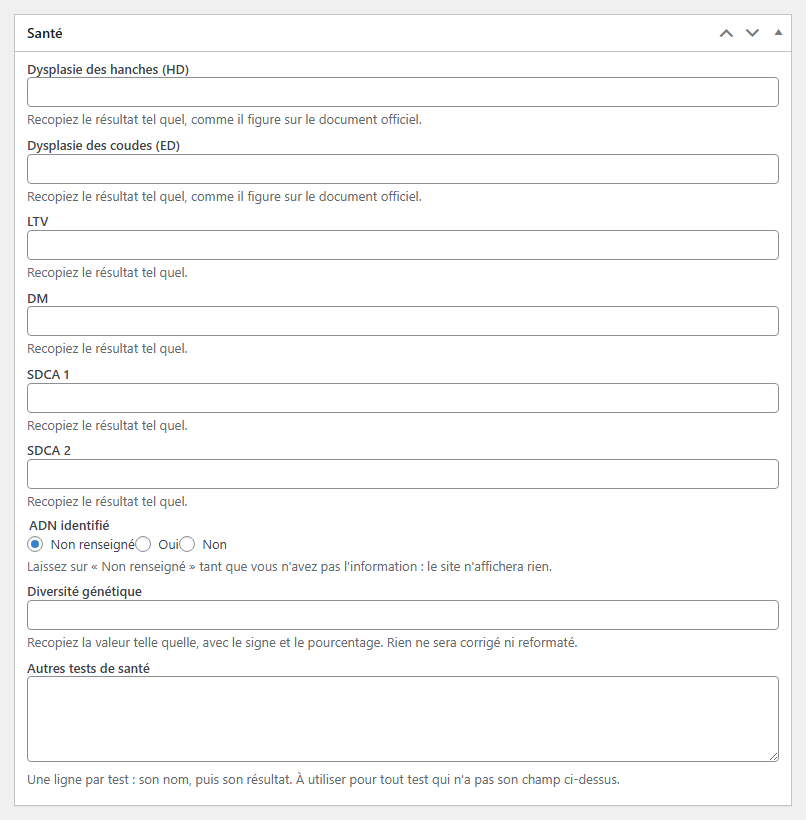
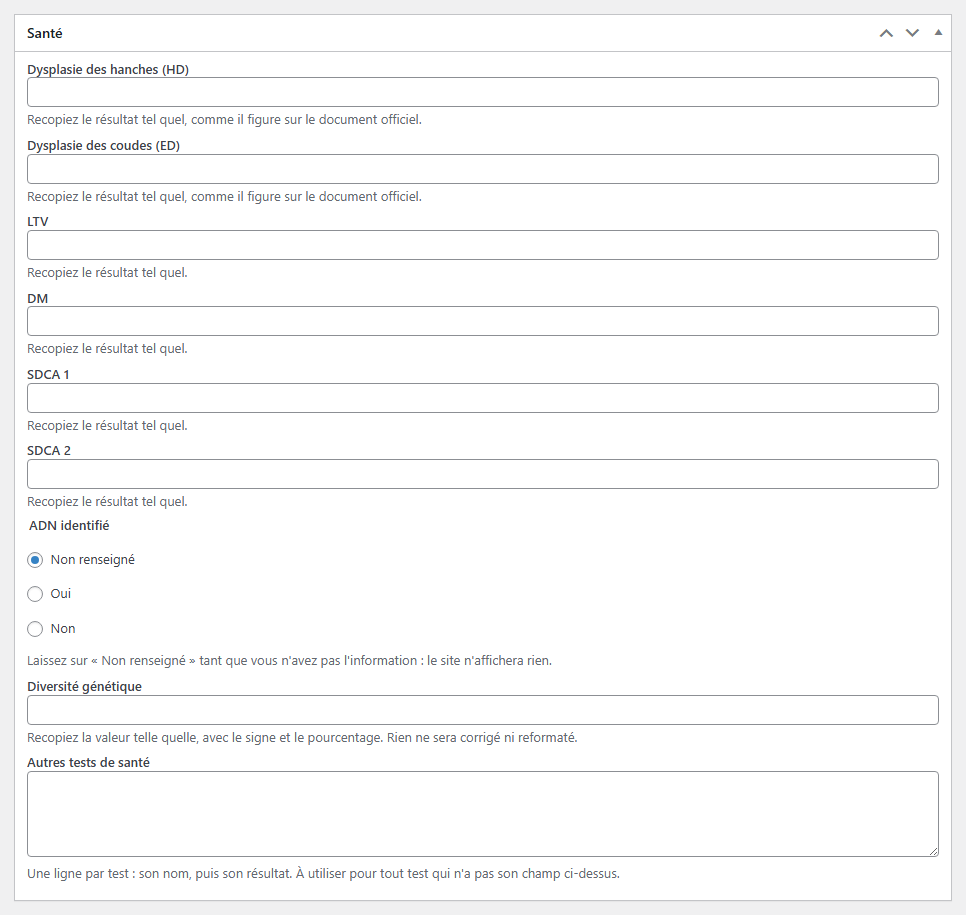
docs(doc): refaire les captures des écrans de saisie et situer les boutons (refs #32)
Les quatre captures montraient encore les défauts que 3667745 supprime. Celle du tableau des
chiots contredisait franchement le texte voisin, qui annonce un tableau tenant dans la page
jusqu'à « Retirer ce chiot » : l'image, elle, montrait le tableau débordant de son cadre et
l'en-tête cassé sur trois lignes. Le texte était juste, l'image ne l'était plus.

Refaites en compte « fabienne », à 1440 px, sur un document neuf, cadrage aligné sur les
captures voisines et focus retiré pour ne pas laisser d'anneau bleu :
- chien-identite.png, les groupes Sexe, Variété et Statut désormais empilés ;
- chien-sante.png, le groupe ADN identifié empilé ;
- chien-photos.png, les trois commandes en boutons séparés au lieu de liens soudés ;
- portee-chiots.png, le tableau tenant dans son cadre, deux rangées remplies et une vide.

La portée retenue pour portee-chiots.png donne deux rangées remplies et une vide, ce qui laisse
son texte alternatif vrai sans retouche — la portée à dix chiots l'aurait périmé.

Une phrase corrigée dans chien-ajouter-un-chien.md : les trois commandes d'une photo étaient
dites « sous » la vignette, elles sont à sa droite, alignées sur son bord supérieur. Le défaut
est antérieur à #32, mais le passage de « button-link » à « button » remonte les boutons et le
rend visible. Le texte alternatif de la même capture est corrigé de la même façon.

Les trois autres textes alternatifs sont inchangés : ils énumèrent des champs, pas une
disposition, et restent exacts.
[…]

diff --git a/docs/guide/chien-ajouter-un-chien.md b/docs/guide/chien-ajouter-un-chien.md
@@ -159,9 +159,10 @@ correction automatique.
 - **Galerie photos** — cliquez sur **Ajouter des photos**. La fenêtre **Photos de la galerie** s'ouvre
   sur l'onglet **Téléverser des fichiers** : cliquez sur l'onglet **Médiathèque**, juste à côté, pour
   voir les photos déjà présentes sur le site. Choisissez vos photos, puis cliquez sur
-  **Ajouter à la galerie**, en bas à droite. Elles s'affichent sur la fiche dans l'ordre de la liste. Sous chaque
-  photo, trois boutons : **Retirer la photo 1**, **Monter la photo 1**, **Descendre la photo 1**. Le
-  numéro suit le rang de la photo : montez celle que vous voulez voir en premier.
+  **Ajouter à la galerie**, en bas à droite. Elles s'affichent sur la fiche dans l'ordre de la liste.
+  À droite de chaque photo, alignés sur son bord supérieur, trois boutons : **Retirer la photo 1**,
+  **Monter la photo 1**, **Descendre la photo 1**. Le numéro suit le rang de la photo : montez celle
+  que vous voulez voir en premier.
 - **Lien pedigree (LOF Select)** — collez l'adresse de la page du chien sur LOF Select, copiée depuis
   la barre du navigateur. C'est ce lien qui remplace un arbre généalogique sur le site : le visiteur y
   trouve l'ascendance complète.
@@ -183,7 +184,7 @@ dans la même colonne : il ne sert à rien ici. Deux champs de cette colonne com
 *Si ce premier champ porte un jour un autre nom, dites-le-nous : rien ne sera cassé, mais nous voulons
 le savoir. Écrivez votre description dedans en attendant, c'est bien le bon.*
 
-![La section Photos et pedigree : la liste Galerie photos avec ses photos et, sous chacune, les boutons Retirer la photo, Monter la photo et Descendre la photo, puis le bouton Ajouter des photos et le champ Lien pedigree (LOF Select)](captures/chien-photos.png)
+![La section Photos et pedigree : la liste Galerie photos avec ses photos et, à droite de chacune, les boutons Retirer la photo, Monter la photo et Descendre la photo, puis le bouton Ajouter des photos et le champ Lien pedigree (LOF Select)](captures/chien-photos.png)
 
 ---
 
